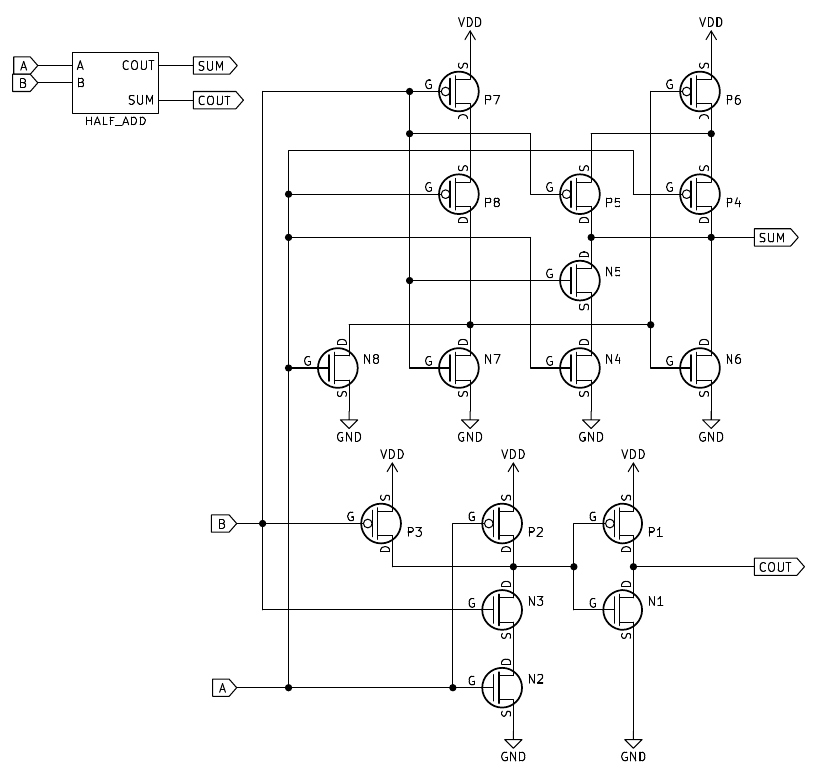
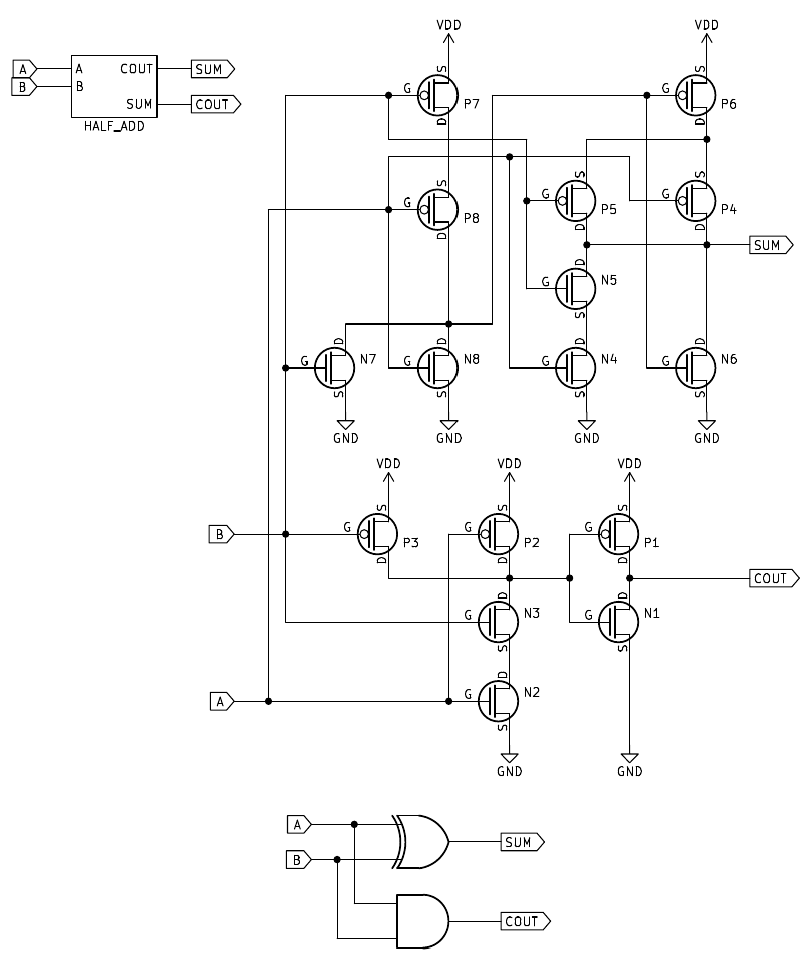
DMG Cells: Update XOR, XNOR, HALF_ADD, FULL_ADD

diff --git a/doc/dmg_cells.html b/doc/dmg_cells.html
@@ -2553,7 +2553,7 @@ changes. The layout includes pre-routed vias to facilitate this change during po
 </table></td></tr>
 </table>
 <p><img src="img/cells/xnor_layout.png?v=2" alt=""></p>
-<p><img src="img/cells/xnor_sch.png?v=1" alt=""></p>
+<p><img src="img/cells/xnor_sch.png?v=2" alt=""></p>
 <p>Instances:
 <a href="/dmg_cpu_b_map/?view=c:hura">HURA</a>
 <a href="/dmg_cpu_b_map/?view=c:mylo">MYLO</a>
@@ -2590,7 +2590,7 @@ changes. The layout includes pre-routed vias to facilitate this change during po
 </table></td></tr>
 </table>
 <p><img src="img/cells/xor_layout.png?v=2" alt=""></p>
-<p><img src="img/cells/xor_sch.png?v=1" alt=""></p>
+<p><img src="img/cells/xor_sch.png?v=2" alt=""></p>
 <p>Instances:
 <a href="/dmg_cpu_b_map/?view=c:bahu">BAHU</a>
 <a href="/dmg_cpu_b_map/?view=c:bazy">BAZY</a>
@@ -2999,7 +2999,7 @@ if <i>SEL</i> is low.</td></tr>
 <td>Sum output. Outputs <code>(<i>A</i> ^ <i>B</i>)</code>.</td></tr>
 </table></td></tr>
 </table>
-<p><img src="img/cells/half_add_sch.png?v=0" alt=""></p>
+<p><img src="img/cells/half_add_sch.png?v=1" alt=""></p>
 <p>Instances:
 <a href="/dmg_cpu_b_map/?view=c:atad">ATAD</a>
 <a href="/dmg_cpu_b_map/?view=c:fafo">FAFO</a>
@@ -3022,6 +3022,8 @@ if <i>SEL</i> is low.</td></tr>
 <td>Sum output. Outputs <code>(<i>A</i> ^ <i>B</i> ^ <i>CIN</i>)</code>.</td></tr>
 </table></td></tr>
 </table>
+<p><img src="img/cells/full_add_layout.png?v=0" alt=""></p>
+<p><img src="img/cells/full_add_sch.png?v=0" alt=""></p>
 <p>Instances:
 <a href="/dmg_cpu_b_map/?view=c:abod">ABOD</a>
 <a href="/dmg_cpu_b_map/?view=c:acul">ACUL</a>
